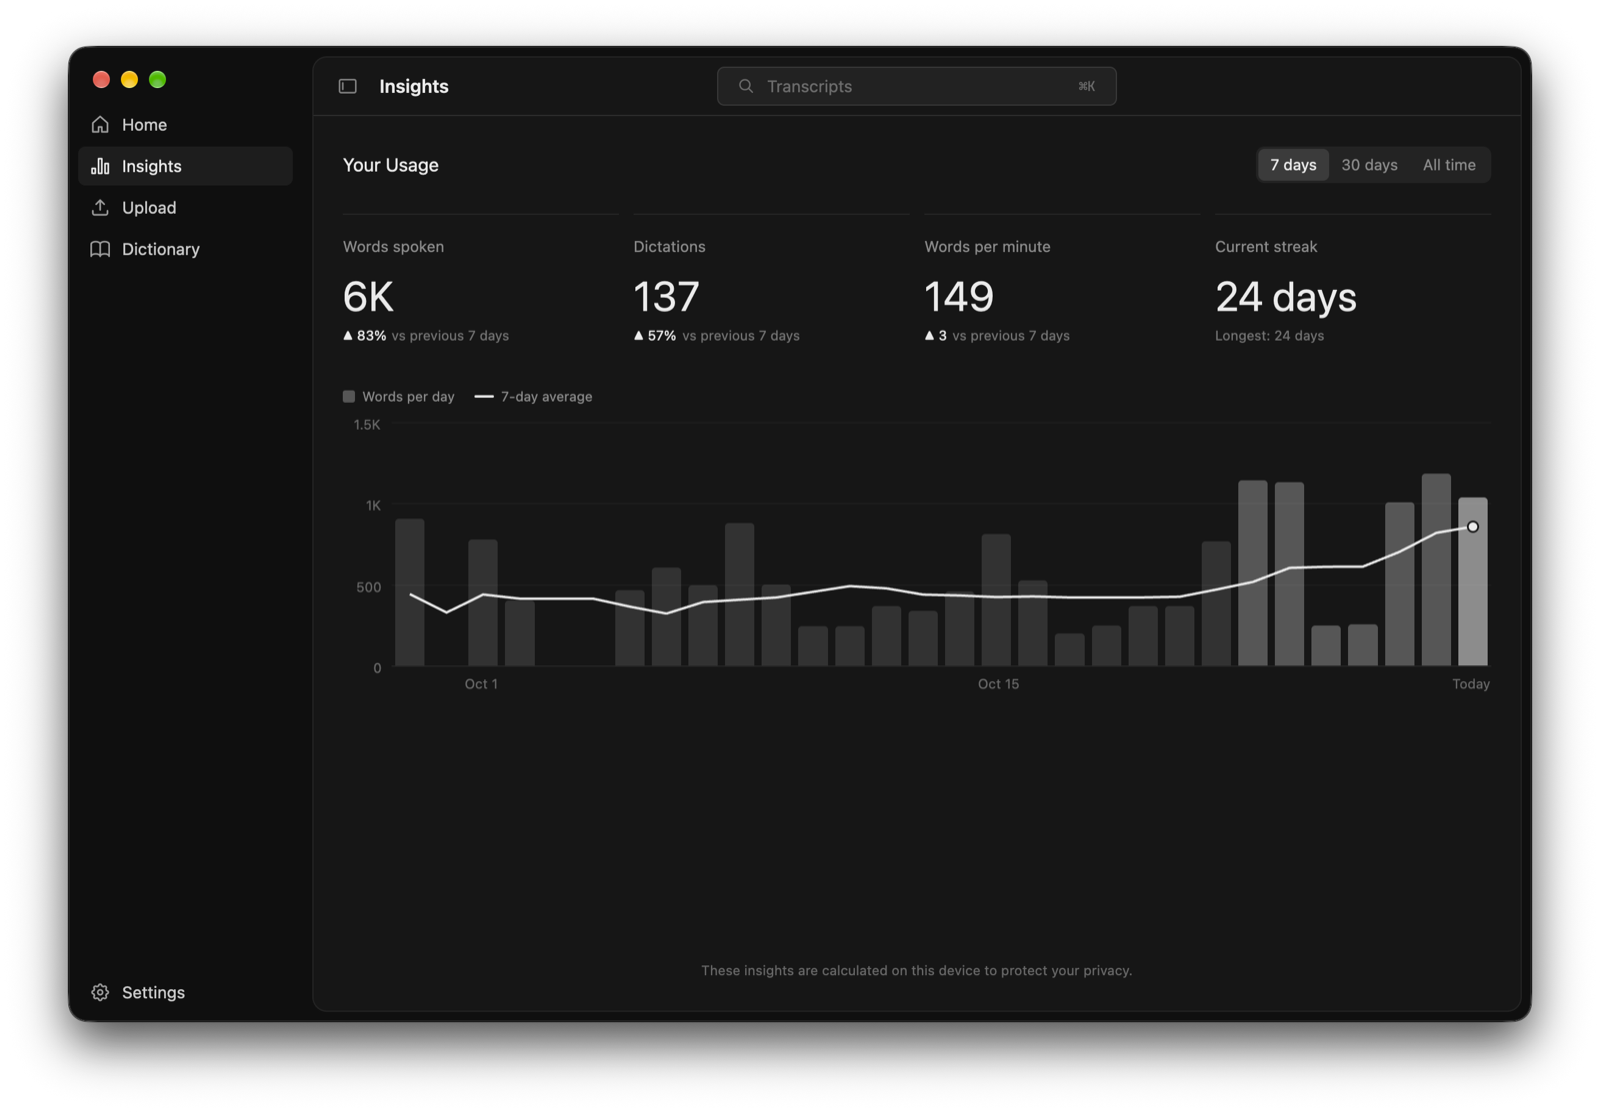
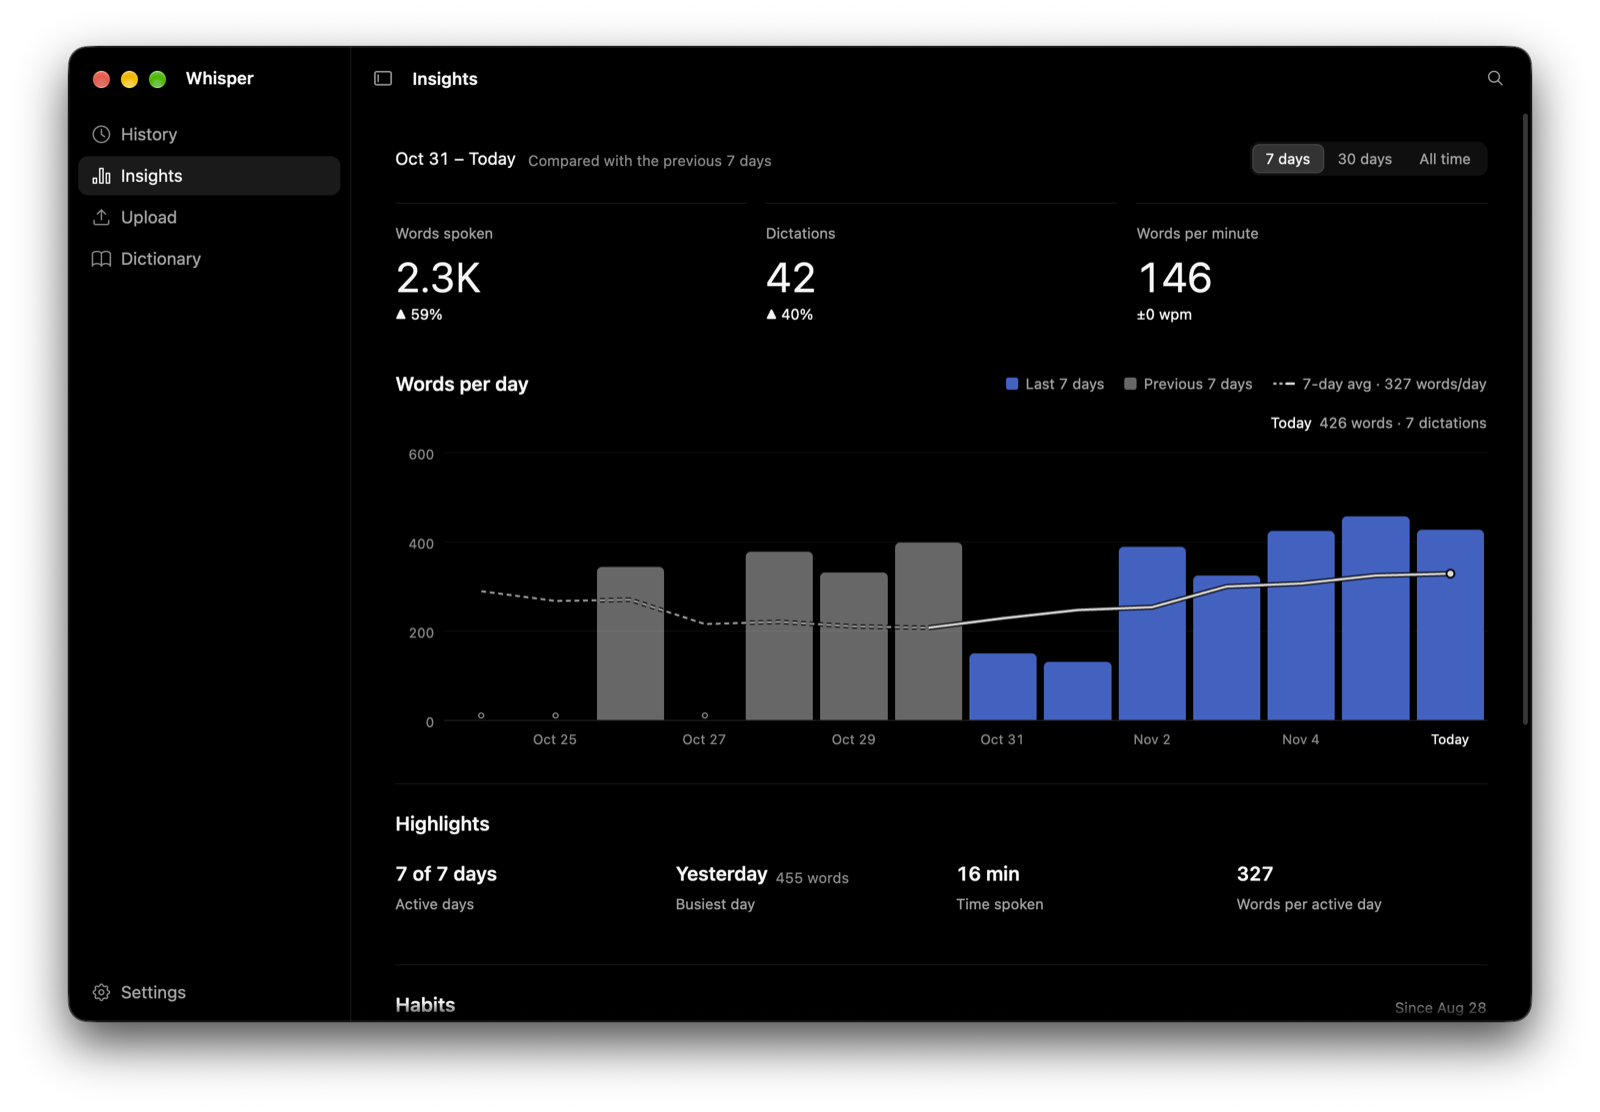
docs(readme): sync with the redesigned UI and localize the upload language (#48)
* fix(upload): name the transcription language in the UI language

The settings strip read the registry's English label, so the Chinese UI
showed "Auto-detect". It now names Auto-detect through the locale and
other languages by their own names, as the Speech to text select does.

* docs(readme): sync features and screenshots with the redesigned UI

Describe the pill's timer and kept recordings, Test Connection, undoable
removals, the new Insights sections and keyboard and VoiceOver support.
Retake every screenshot from the current UI with sample data, and list
WHISPER_DEV_SCENE among the environment variables.

diff --git a/src/ui/upload_view.rs b/src/ui/upload_view.rs
@@ -879,11 +879,17 @@ impl UploadView {
             super::settings_modal::endpoint_host(url)
         };
         let model = s.remote_transcription_model.trim().to_string();
-        let language = crate::text::language::languages()
-            .iter()
-            .find(|l| l.code == s.preferred_language)
-            .map(|l| l.label.clone())
-            .unwrap_or_else(|| s.preferred_language.clone());
+        // Name the language the way the Speech to text select does: Auto-detect
+        // in the UI language, every other language by its own name.
+        let language = if s.preferred_language == "auto" {
+            t("settings.language.autoDetect")
+        } else {
+            crate::text::language::languages()
+                .iter()
+                .find(|l| l.code == s.preferred_language)
+                .map(|l| l.native.clone())
+                .unwrap_or_else(|| s.preferred_language.clone())
+        };
         // One label style and one value weight: the values are context for
         // the drop target, not headlines of their own.
         let pair = |label: String, value: Div| {

diff --git a/README.md b/README.md
@@ -22,24 +22,31 @@ typing in.
 - **Dictate anywhere.** Trigger with Globe/Fn, a single modifier such as Right
   Command, or any key combination. Double-tap a single key for hands-free
   recording (key combinations toggle with one press), or hold to talk. A
-  floating recording pill shows a live waveform; click it to finish, hover for a
-  cancel button, or press Escape to cancel.
+  floating recording pill shows a live waveform and the elapsed time, with a
+  cancel button beside it; click the pill to finish or press Escape to cancel.
+  If the server fails, the recording is kept so you can resend it.
 - **Self-hosted models.** Speech recognition goes to your own
   `/audio/transcriptions` endpoint; optional cleanup goes to a
   `/chat/completions` endpoint, with an editable prompt and a Prompt Studio to
-  test it.
+  test it. Test Connection checks each server and lists its models.
 - **Gets better with use.** A dictionary supplies spelling hints, corrections
   you make right after a paste are learned, and Snippets expand short phrases
-  into longer text.
-- **History.** Search with Cmd+K, view raw transcripts, retry from saved audio,
-  and set how long audio and transcripts are kept.
-- **File transcription.** Transcribe a single audio or video file, or a batch.
-- **Insights.** Words, dictations, words per minute and streaks for the last
-  7 or 30 days or all time, each compared with the previous period, plus a
-  daily trend chart with a 7-day average, all computed on device.
+  into longer text. Removing a word or snippet can be undone.
+- **History.** Search with Cmd+K, open raw transcripts, re-transcribe from
+  saved audio, undo a delete, and set how long audio and transcripts are kept.
+- **File transcription.** Drop in one audio or video file, or a batch; each
+  transcript is saved to History.
+- **Insights.** Words, dictations and words per minute for the last 7 or 30
+  days or all time, each compared with the previous period; a trend chart that
+  sets the period beside the one before it; highlights such as active days,
+  busiest day and time spoken; and a Habits section with your streak calendar
+  and weekly rhythm. Everything is computed on device.
 - **Fits into macOS.** Menu bar icon, standard app menu, start at login
   (macOS 13+), optional media pause while recording, English and Simplified
   Chinese UI, and light, dark or automatic themes.
+- **Keyboard and VoiceOver.** Every control is reachable with Tab and named for
+  VoiceOver, lists and charts move with the arrow keys, and animations follow
+  the macOS Reduce motion setting.
 
 Data lives in `~/Library/Application Support/com.softmaxe.whisper`.
 
@@ -49,11 +56,11 @@ The screenshots use sample data.
 
 | History | Insights |
 | --- | --- |
-| ![History grouped by day, with search](docs/images/en/home.png) | ![Words, words per minute and streaks compared with the previous period, and a daily trend chart](docs/images/en/insights.png) |
+| ![History grouped by day, with search](docs/images/en/home.png) | ![Words, dictations and words per minute compared with the previous period, a trend chart across both periods, and highlights](docs/images/en/insights.png) |
 | **Dictionary** | **Speech-to-text settings** |
-| ![Dictionary words used as spelling hints](docs/images/en/dictionary.png) | ![Self-hosted speech server URL and model](docs/images/en/settings.png) |
+| ![Dictionary words with their source, uses and last use](docs/images/en/dictionary.png) | ![Self-hosted speech server URL, connection test and model](docs/images/en/settings.png) |
 | **File transcription** | |
-| ![A finished transcript beside the transcription settings and a completed batch queue](docs/images/en/upload.png) | |
+| ![The file drop target above the transcription settings and where transcripts are saved](docs/images/en/upload.png) | |
 
 ## Install
 
@@ -145,6 +152,7 @@ Accessibility access for automatic paste and the Globe/modifier listeners.
 | `WHISPER_USER_DATA_DIR` | Use another data directory (tests, side-by-side runs) |
 | `WHISPER_HELPERS_DIR` | Load the native helpers from another directory |
 | `WHISPER_SKIP_NATIVE_BUILD` | Skip building the native helpers in `build.rs` |
+| `WHISPER_DEV_SCENE` | Debug builds: open a fixed view at launch for screenshots, such as `insights`, `settings:speech` or `pill:recording` (values in `src/ui/dev_scene.rs`) |
 | `RUST_LOG` | Log filter, for example `info,whisper::native=debug` |
 
 ## Layout

diff --git a/README.zh-CN.md b/README.zh-CN.md
@@ -19,19 +19,23 @@
 
 - **随处听写。** 可用 Globe/Fn 键、单个修饰键（如右 Command）或任意组合键触发。
   单键双击进入免手持录音（组合键按一次即开始或结束），或按住说话。录音时会出现
-  悬浮条，显示实时波形；点击悬浮条结束录音，悬停时可点取消按钮，按 Esc 取消。
+  悬浮条，显示实时波形和已录时长，旁边有取消按钮；点击悬浮条结束录音，按 Esc 取消。
+  如果服务器出错，录音会被保留，可以重新发送。
 - **自托管模型。** 语音识别请求发送到你自己的 `/audio/transcriptions` 接口；可选的
   文本整理请求发送到 `/chat/completions` 接口，提示词可编辑，并可在 Prompt Studio
-  中测试。
+  中测试。“测试连接”可检查每个服务器并列出它的模型。
 - **越用越准。** 词典为识别提供拼写提示；粘贴后立即做出的修改会被自动学习；
-  片段（Snippets）可以把短语展开为更长的文本。
-- **历史记录。** 用 Cmd+K 搜索、查看原始转录、用保存的音频重试，并设置音频和转录的
-  保留时长。
-- **文件转录。** 可转录单个音频或视频文件，也可批量转录。
-- **统计。** 最近 7 天、30 天或全部时间的字数、听写次数、每分钟字数和连续天数，
-  每项都与上一周期对比，并附带每日趋势图和 7 日均线，全部在本机计算。
+  片段（Snippets）可以把短语展开为更长的文本。删除词条或片段后可以撤销。
+- **历史记录。** 用 Cmd+K 搜索、查看原始转录、用保存的音频重新转录、撤销删除，
+  并设置音频和转录的保留时长。
+- **文件转录。** 拖入单个音频或视频文件，也可批量转录；每份转录都会保存到历史记录。
+- **统计。** 最近 7 天、30 天或全部时间的字数、听写次数和每分钟字数，每项都与
+  上一周期对比；趋势图把当前周期与上一周期并排显示；亮点包括活跃天数、最忙的一天
+  和说话时长；“习惯”部分展示连续天数日历和每周节奏。全部在本机计算。
 - **融入 macOS。** 菜单栏图标、标准应用菜单、开机启动（macOS 13+）、可选在录音时暂停媒体播放、
   英文和简体中文界面，以及浅色、深色或自动主题。
+- **键盘与旁白。** 所有控件都能用 Tab 访问并带有旁白（VoiceOver）名称，列表和图表
+  可用方向键浏览，动画遵循 macOS 的“减弱动态效果”设置。
 
 数据保存在 `~/Library/Application Support/com.softmaxe.whisper`。
 
@@ -41,11 +45,11 @@
 
 | 历史记录 | 统计 |
 | --- | --- |
-| ![按天分组的历史记录，支持搜索](docs/images/zh/home.png) | ![字数、每分钟字数和连续天数的环比，以及每日趋势图](docs/images/zh/insights.png) |
+| ![按天分组的历史记录，支持搜索](docs/images/zh/home.png) | ![字数、听写次数和每分钟字数的环比，跨两个周期的趋势图，以及亮点](docs/images/zh/insights.png) |
 | **词典** | **语音转文字设置** |
-| ![作为拼写提示的词典词条](docs/images/zh/dictionary.png) | ![自托管语音服务的地址和模型](docs/images/zh/settings.png) |
+| ![词典词条及其来源、使用次数和最近使用时间](docs/images/zh/dictionary.png) | ![自托管语音服务的地址、连接测试和模型](docs/images/zh/settings.png) |
 | **文件转录** | |
-| ![转录完成的文字稿，旁边是转录设置和已完成的批量队列](docs/images/zh/upload.png) | |
+| ![文件拖放区，下方是转录设置和转录的保存位置](docs/images/zh/upload.png) | |
 
 ## 安装
 
@@ -122,6 +126,7 @@ scripts/bundle-macos.sh      # release build -> dist/Whisper.app (ad-hoc signed)
 | `WHISPER_USER_DATA_DIR` | 使用其他数据目录（测试、并行运行） |
 | `WHISPER_HELPERS_DIR` | 从其他目录加载原生辅助程序 |
 | `WHISPER_SKIP_NATIVE_BUILD` | 跳过 `build.rs` 中的原生辅助程序构建 |
+| `WHISPER_DEV_SCENE` | 仅 debug 构建：启动时打开固定界面用于截图，例如 `insights`、`settings:speech` 或 `pill:recording`（可选值见 `src/ui/dev_scene.rs`） |
 | `RUST_LOG` | 日志过滤，例如 `info,whisper::native=debug` |
 
 ## 目录结构
